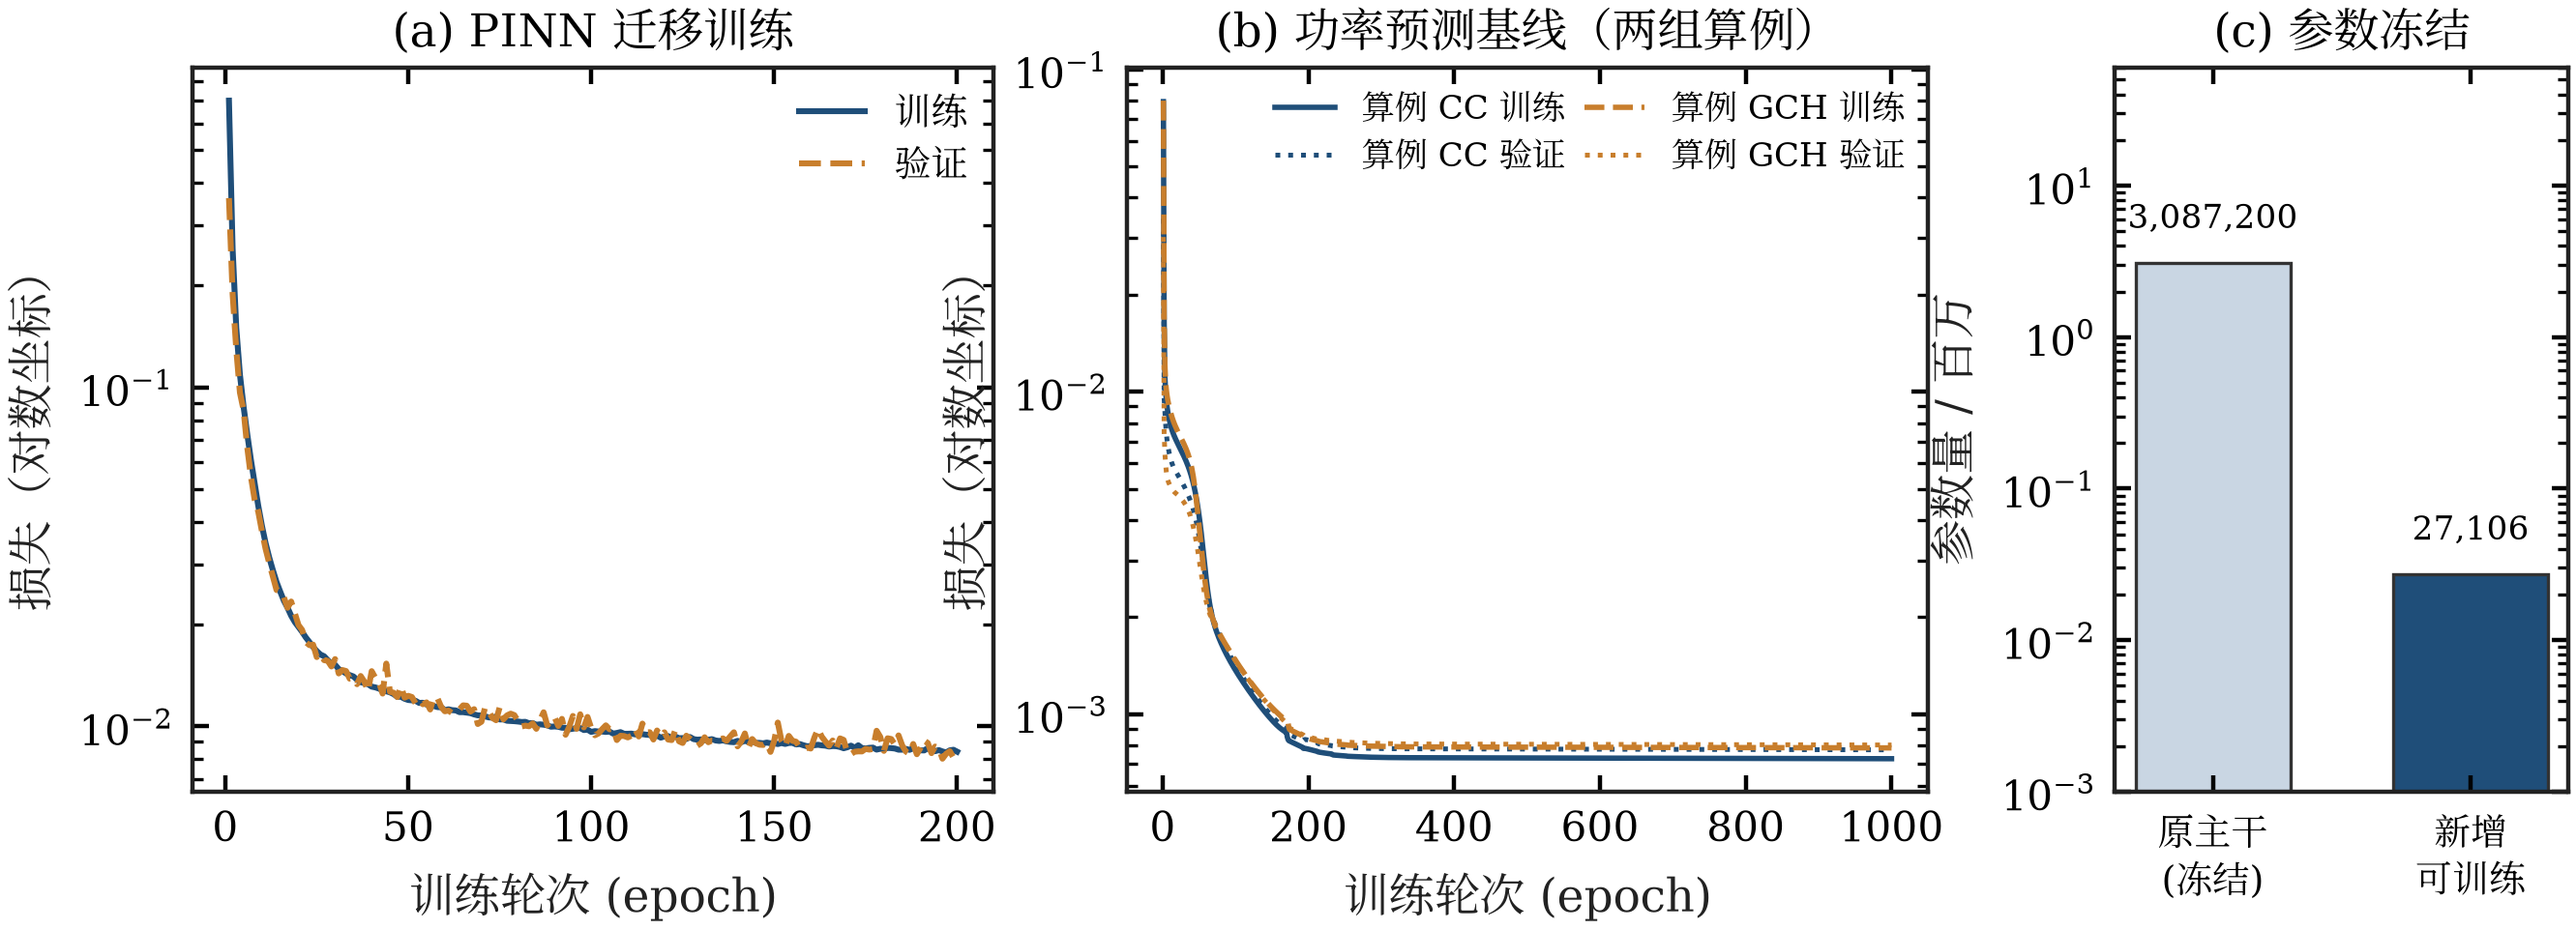
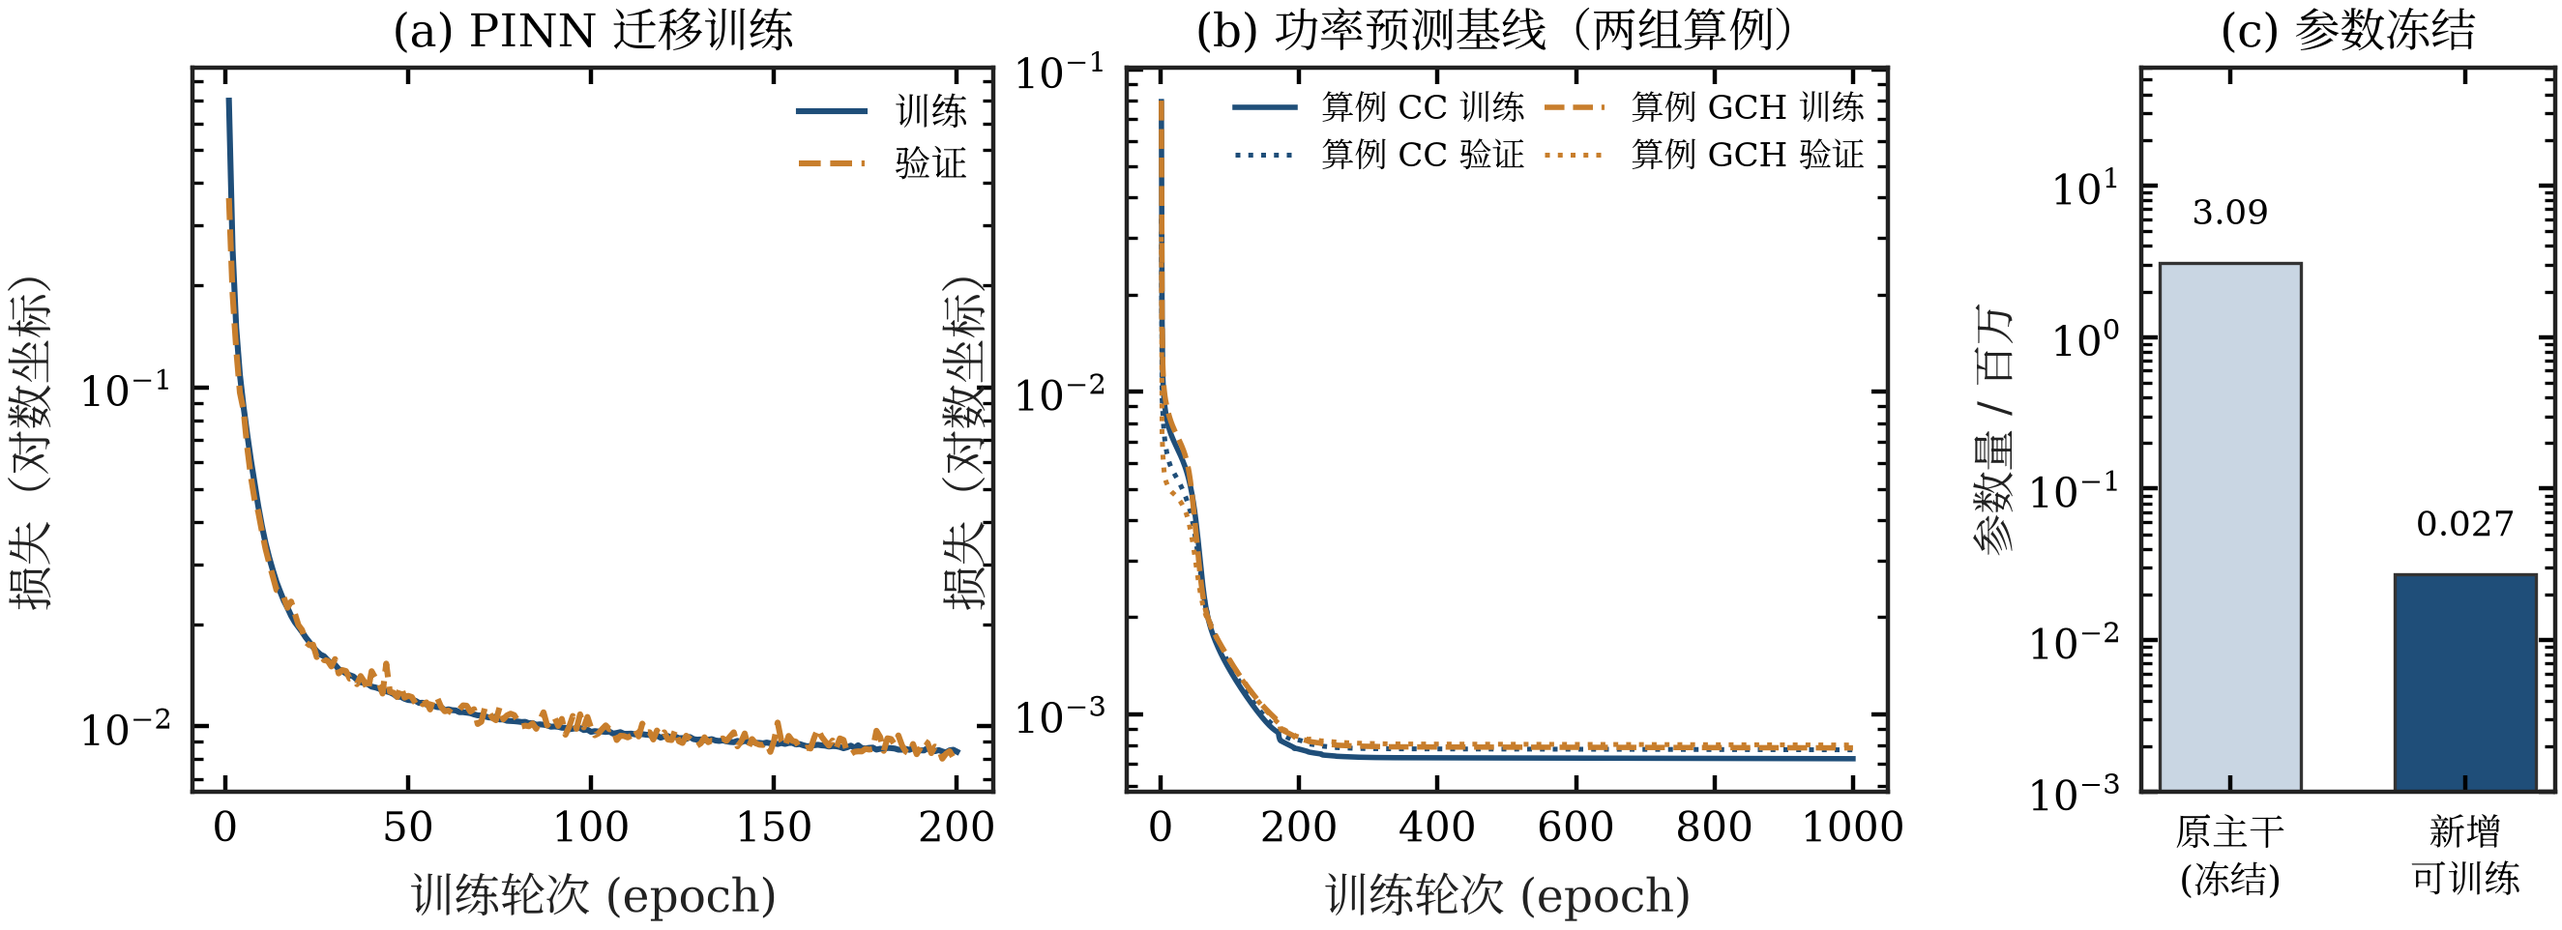
fig10 参数轴收紧、图注与媒体索引补一览图

diff --git a/tools/paper_figures.py b/tools/paper_figures.py
@@ -504,7 +504,7 @@ def fig10():
     ax1.legend(loc="upper right", fontsize=6.8)
     ax1.set_title("(a) PINN 迁移训练", fontsize=8.5, pad=4)
 
-    ax2 = F.paper_axes(fig, [0.425, 0.185, 0.30, 0.72])
+    ax2 = F.paper_axes(fig, [0.425, 0.185, 0.285, 0.72])
     for out, label, col, ls in (("output_cc", "算例 CC", C["ours"], "-"), ("output_gch", "算例 GCH", C["alt"], "--")):
         h = rows(BASELINE_NN / out / "wind_farm_results" / "training_history.csv")
         loss = np.array([f(r["loss"]) for r in h])
@@ -517,16 +517,16 @@ def fig10():
     ax2.set_title("(b) 功率预测基线（两组算例）", fontsize=8.5, pad=4)
 
     # 右：两套模型结构规模对比（柱）
-    ax3 = F.paper_axes(fig, [0.795, 0.185, 0.17, 0.72])
+    ax3 = F.paper_axes(fig, [0.805, 0.185, 0.155, 0.72])
     names = ["原主干\n(冻结)", "新增\n可训练"]
     vals = [3087200 / 1e6, 27106 / 1e6]
     ax3.bar([0, 1], vals, color=[C["light"], C["ours"]], edgecolor="#333333", lw=0.6, width=0.6)
     ax3.set_yscale("log")
     ax3.set_xticks([0, 1])
     ax3.set_xticklabels(names, fontsize=6.8)
-    ax3.set_ylabel("参数量 / 百万")
+    ax3.set_ylabel("参数量 / 百万", labelpad=1.5, fontsize=8)
     for i, v in enumerate(vals):
-        ax3.text(i, v * 1.7, ("27,106" if v < 1 else "3,087,200"), ha="center", fontsize=6.2)
+        ax3.text(i, v * 1.8, ("0.027" if v < 1 else "3.09"), ha="center", fontsize=6.5)
     ax3.set_ylim(1e-3, 60)
     ax3.set_title("(c) 参数冻结", fontsize=8.5, pad=4)
     F.paper_save(fig, OUT, "fig10_learning_curves")

diff --git a/docs/defense/paper_captions.md b/docs/defense/paper_captions.md
@@ -1,7 +1,7 @@
 # 论文插图图注（14 张）：直接可用的 caption + 每张的「不能说什么」
 
 > 对应脚本：`tools/paper_figures.py`；成品：`docs/defense/assets/paper/`（`fig01`–`fig14`，400 dpi PNG + 矢量 PDF）。
-> 重画：`/home/user/.venvs/fig/bin/python tools/paper_figures.py [figXX ...]`。
+> 重画：`/home/user/.venvs/fig/bin/python tools/paper_figures.py [figXX ...]`；一眼过目：`assets/paper/_contact_sheet.png`。
 >
 > **为什么要单独一份图注**：这批图是**论文插图**，图上只有坐标轴、轴标签、图例、panel 字母和必要注解，
 > 没有页眉、没有大标题、没有读法行、没有角标横幅。所有「这图说明什么、证据到什么程度、不能外推到哪」

diff --git a/docs/defense/assets/README.md b/docs/defense/assets/README.md
@@ -34,6 +34,8 @@
 `fig09` 逐场配对、`fig10` 训练收敛＋参数冻结、`fig11` 预测一致性／残差、`fig12` 执行器步进、
 `fig13` 来流方向极坐标、`fig14` 反算 Cp–桨距。
 
+一览图：`paper/_contact_sheet.png`（14 张缩略拼版，只用于快速过目，不进论文）。
+
 重画：`/home/user/.venvs/fig/bin/python tools/paper_figures.py [figXX …]`（`--list` 看图号）。
 **存量 37 张（`generated/`）不重画、不覆盖**；两批图结论口径一致。
 
